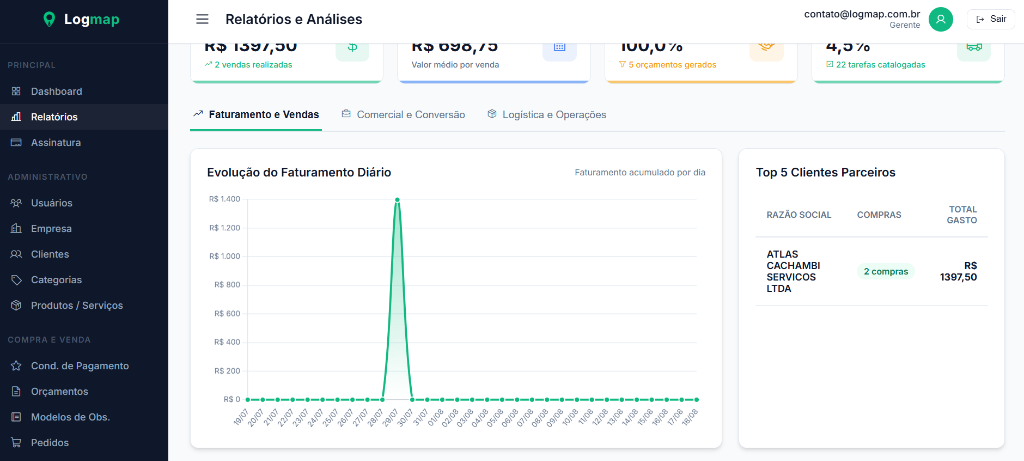
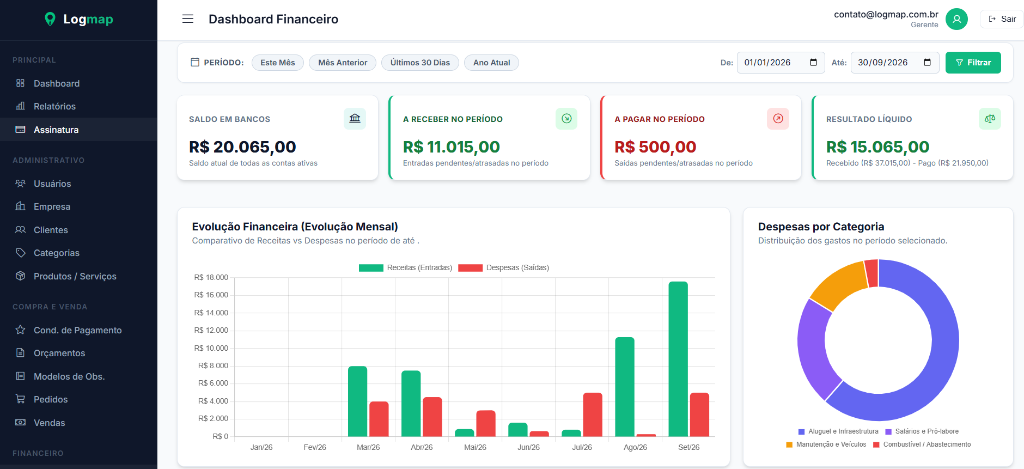
feat: atualizacao da foto oficial do Logmap (Dashboard Financeiro) nos cards de produto, portfolio e pagina interna logmap.html

diff --git a/portfolio.html b/portfolio.html
@@ -138,7 +138,7 @@
                 </div>
                 <!-- Case 3: Logmap -->
                 <a href="logmap.html" class="portfolio-card glass-border reveal delay-2" style="text-decoration: none; display: block;">
-                    <img src="https://images.unsplash.com/photo-1460925895917-afdab827c52f?auto=format&fit=crop&q=80&w=800" alt="Plataforma Logmap" class="portfolio-img">
+                    <img src="assets/images/logmap-app.png" alt="Plataforma Logmap" class="portfolio-img">
                     <div class="portfolio-overlay">
                         <span class="text-gradient font-bold">Logística & Roteirização</span>
                         <h3 class="mt-2 mb-2">Plataforma Logmap (logmap.com.br)</h3>

diff --git a/style.css b/style.css
@@ -827,7 +827,7 @@ footer {
     width: 100%;
     height: 100%;
     object-fit: cover;
-    object-position: top;
+    object-position: top center;
     transition: transform 0.4s ease;
 }
 
